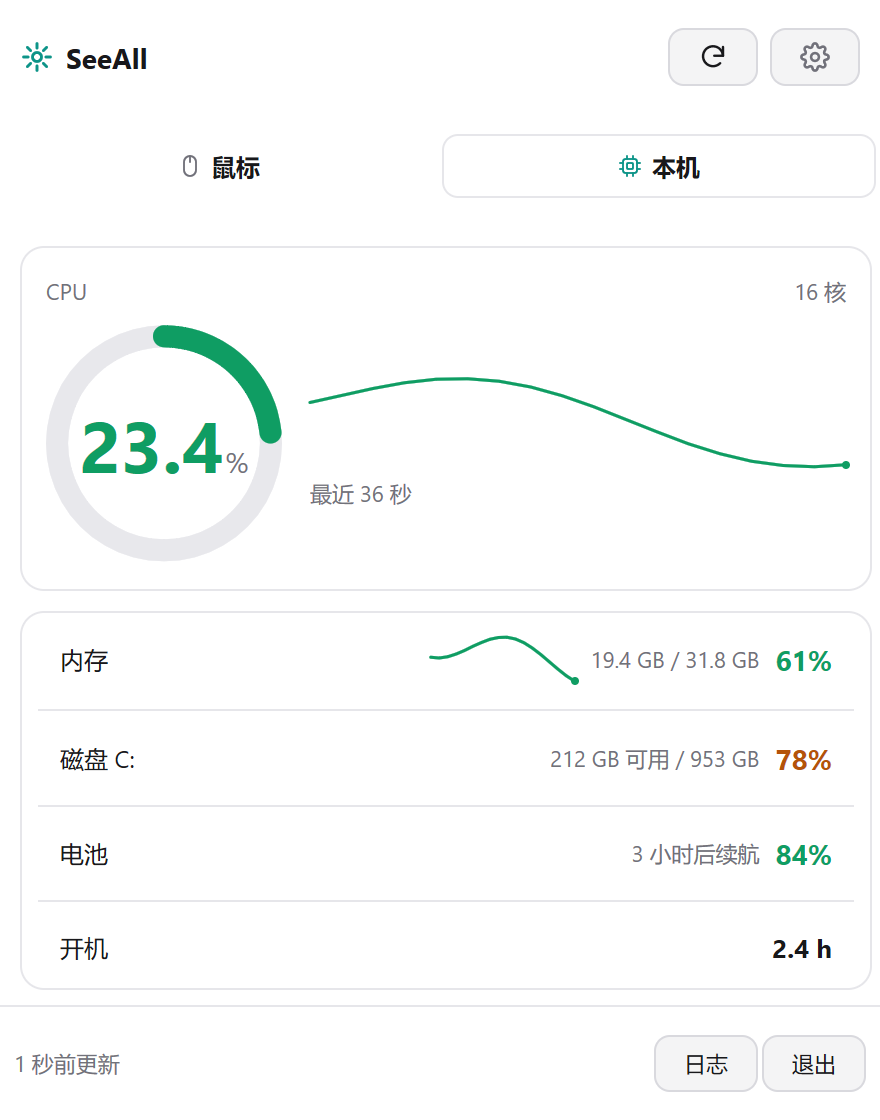
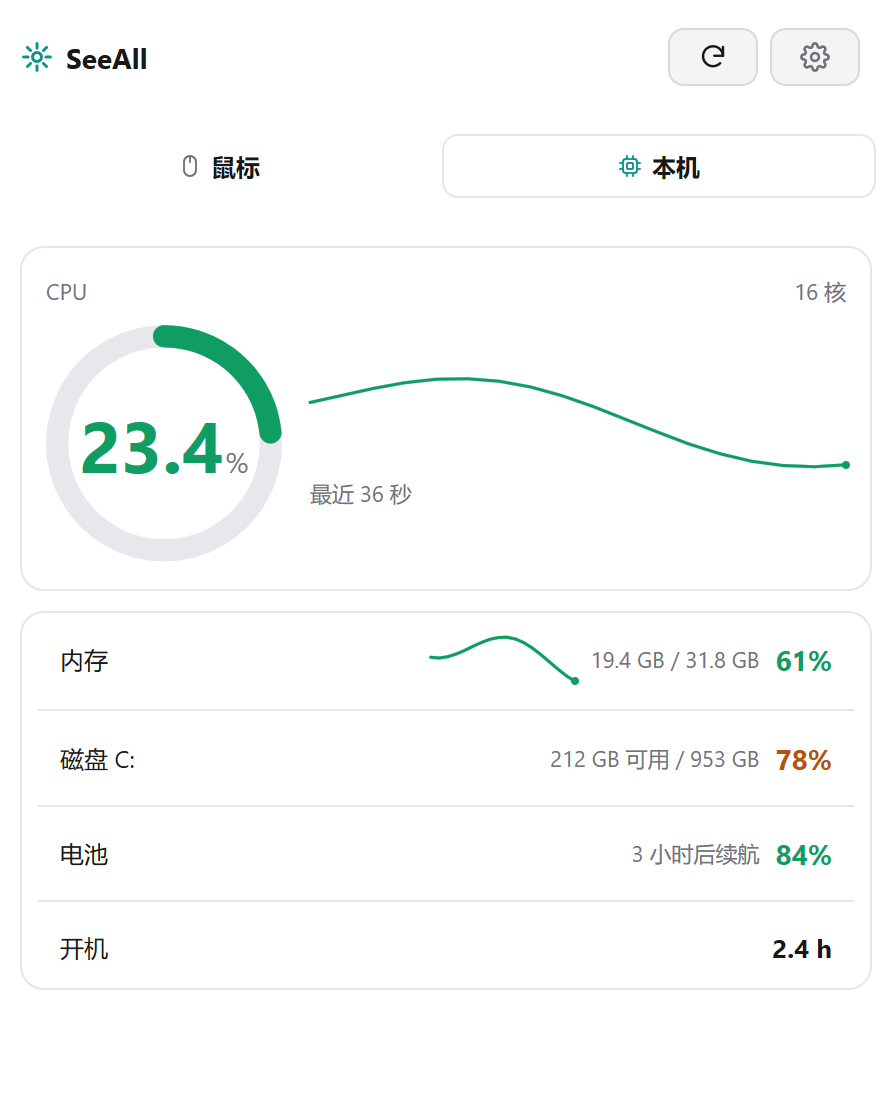
feat: 去掉面板底部的状态栏
下面那条「多久之前更新 / N 个监控项 · N 个插件」+ 日志 + 退出的状态栏整个删掉。
日志和退出在托盘右键菜单里本来就有，面板上重复一套既占地方又和「只看不操作」的
定位对不上。

随之清掉：
- panel.OpenLog 钩子（main 里给 UI 传打开日志回调的那段）——面板不再有调用方。
- detail.updatedText——只给状态栏用。
- panel.app 的 mygo / strconv 依赖。

fit_test 原来拿状态栏的「退出」当锚点断言页面没被裁，锚点没了，改成断言三层骨架
的相对位置与边界：标题栏在顶部、标签页在其下、页面内容在标签页之下且起点在窗口内。

验证：go build / go vet / gofmt 干净，go test 全绿；cmd/preview 重出三张文档图；
打包版 exe 实测面板底部不再有状态栏，窗口仍是 660×840 物理像素。

diff --git a/internal/panel/fit_test.go b/internal/panel/fit_test.go
@@ -87,10 +87,18 @@ func TestMarginDIP(t *testing.T) {
 }
 
 // TestFitFitsEveryPage renders each page at the sizes Fit gives a display and
-// checks that the status bar — the last thing in every window — and the tab
-// row are inside it. A page whose content outgrows the panel clips it, which
-// is what the fixed-size layout has to prevent.
+// checks its skeleton: the title bar on top, the tabs under it, the page under
+// them, all inside the window. A header pushed off the top or a tab row below
+// the fold is what the fixed-size layout has to prevent.
 func TestFitFitsEveryPage(t *testing.T) {
+	pages := []struct {
+		row     string
+		content string
+	}{
+		{"mouse", "电量"},
+		{"system", "CPU"},
+		{SettingsPage, "应用"},
+	}
 	for _, area := range []struct {
 		name  string
 		w, h  int
@@ -100,24 +108,40 @@ func TestFitFitsEveryPage(t *testing.T) {
 		{"laptop", 1358, 720, 1},
 	} {
 		m := Fit(area.w, area.h, area.scale)
-		for _, row := range []string{"mouse", "system", SettingsPage} {
+		for _, page := range pages {
 			h, _ := fixture(t)
 			p := New(h)
 			p.SetSize(m)
-			p.SetSelected(row)
+			p.SetSelected(page.row)
 
 			tt := ui.NewTester(p.View, m.Width, m.Height)
-			r, ok := tt.Find("退出")
+			title, ok := tt.Find("SeeAll")
 			if !ok {
-				t.Fatalf("%s/%s: the status bar is missing", area.name, row)
+				t.Fatalf("%s/%s: the title bar is missing: %v", area.name, page.row, tt.Texts())
 			}
-			if r.Y+r.H > float32(m.Height) {
-				t.Errorf("%s/%s: the status bar is clipped (bottom %v of %d)",
-					area.name, row, r.Y+r.H, m.Height)
+			if title.Y > 40 {
+				t.Errorf("%s/%s: the title bar sits at y=%v, not at the top",
+					area.name, page.row, title.Y)
 			}
-			if r.Y < float32(m.Height)*0.8 {
-				t.Errorf("%s/%s: the status bar sits at y=%v, not at the foot of %d",
-					area.name, row, r.Y, m.Height)
+			tabs, ok := tt.Find("本机")
+			if !ok {
+				t.Fatalf("%s/%s: the tab row is missing: %v", area.name, page.row, tt.Texts())
+			}
+			if tabs.Y <= title.Y+title.H {
+				t.Errorf("%s/%s: the tabs at y=%v overlap the title bar at y=%v",
+					area.name, page.row, tabs.Y, title.Y)
+			}
+			content, ok := tt.Find(page.content)
+			if !ok {
+				t.Fatalf("%s/%s: %q is missing: %v", area.name, page.row, page.content, tt.Texts())
+			}
+			if content.Y <= tabs.Y {
+				t.Errorf("%s/%s: the page content at y=%v sits above the tabs at y=%v",
+					area.name, page.row, content.Y, tabs.Y)
+			}
+			if content.Y > float32(m.Height) {
+				t.Errorf("%s/%s: the page starts below the window (y=%v of %d)",
+					area.name, page.row, content.Y, m.Height)
 			}
 		}
 	}

diff --git a/internal/panel/app.go b/internal/panel/app.go
@@ -2,9 +2,7 @@ package panel
 
 import (
 	"sort"
-	"strconv"
 
-	"github.com/egoist/mygo"
 	"github.com/egoist/mygo/ui"
 
 	"seeall/internal/app"
@@ -72,8 +70,8 @@ func (a *App) SetSelected(id string) {
 	}
 }
 
-// View builds the panel: a title bar, the tabs that choose what it shows, the
-// page, and a status bar at its foot.
+// View builds the panel: a title bar, the tabs that choose what it shows, and
+// the page.
 func (a *App) View(c *ui.Context) {
 	p := paletteFor(c)
 	a.handleKeys(c)
@@ -96,7 +94,6 @@ func (a *App) View(c *ui.Context) {
 				}
 			}
 		})
-		a.footer(c, p, instances)
 	})
 }
 
@@ -177,39 +174,6 @@ func (a *App) tabButton(c *ui.Context, p palette, tab ui.Element, on bool, icon 
 		}
 	})
 	return tab
-}
-
-// footer is the status bar: what the page above it last did, on the left, and
-// the two things that leave the panel on the right.
-func (a *App) footer(c *ui.Context, p palette, instances []*app.Instance) {
-	ui.Box(c).Shrink(0).Height(1).Background(p.CardBorder)
-	ui.Row(c).Shrink(0).Padding(14, 7).Gap(2).AlignItems(ui.Center).Children(func() {
-		ui.Text(c, a.statusLine(instances)).FontSize(11).TextColor(p.TextMuted).
-			Grow(1).NoWrap().MaxLines(1)
-		if ui.Button(c, "").Label("日志").Description("打开日志").Tooltip("打开日志").Children(func() {
-			ui.Text(c, "日志").FontSize(11).SingleLine()
-		}).Clicked() {
-			openLog()
-		}
-		if ui.Button(c, "").Label("退出").Description("退出 SeeAll").Tooltip("退出").Children(func() {
-			ui.Text(c, "退出").FontSize(11).SingleLine()
-		}).Clicked() {
-			mygo.App.Quit()
-		}
-	})
-}
-
-// statusLine says what the footer says about the page above it.
-func (a *App) statusLine(instances []*app.Instance) string {
-	if a.Selected() == SettingsPage {
-		return strconv.Itoa(len(instances)) + " 个监控项 · " +
-			strconv.Itoa(len(a.Host.Plugins())) + " 个插件"
-	}
-	in := a.Host.Instance(a.Selected())
-	if in == nil {
-		return "没有监控项"
-	}
-	return updatedText(in.Snapshot())
 }
 
 // ensureSelection keeps the panel on a row that exists: a monitor the user

diff --git a/main.go b/main.go
@@ -65,11 +65,6 @@ func main() {
 	s.host.Logf = func(format string, args ...any) { log.Printf(format, args...) }
 	s.panel = panel.New(s.host)
 	s.panel.Select = func(string) { s.refresh() }
-	panel.OpenLog = func() {
-		if dir, err := mygo.App.Path(mygo.PathLogs); err == nil {
-			mygo.Shell.ShowItemInFolder(filepath.Join(dir, "seeall.log"))
-		}
-	}
 
 	mygo.App.OnBeforeQuit(func(*mygo.QuitEvent) {
 		s.quitting = true

diff --git a/internal/panel/detail.go b/internal/panel/detail.go
@@ -189,13 +189,6 @@ func (a *App) disclosure(c *ui.Context, p palette, label string) ui.Element {
 	return row
 }
 
-func updatedText(snap core.Snapshot) string {
-	if snap.At.IsZero() {
-		return "还没有数据"
-	}
-	return core.FormatDuration(time.Since(snap.At)) + "更新"
-}
-
 func historyWindow(in *app.Instance, readingID string) string {
 	n := len(in.History(readingID))
 	seconds := intervalSeconds(in)

diff --git a/internal/panel/public.go b/internal/panel/public.go
@@ -12,12 +12,6 @@ import (
 // tray menu uses it to open them.
 const SettingsPage = "@settings"
 
-// OpenLog opens the log file, as the status bar's button does. The app sets
-// it once it knows where the file is.
-var OpenLog = func() {}
-
-func openLog() { OpenLog() }
-
 // Content returns the window's content for a panel: the view MyGo calls to
 // build each frame.
 func Content(a *App) *ui.Content {

diff --git a/README.md b/README.md
@@ -41,7 +41,7 @@ go build -o seeall.exe .  # 快速编译（带控制台，会自动隐藏）
 > 如果是从 cmd / PowerShell 起的，控制台是 shell 的，就不动它。
 > `go tool mygo build` 打出来的 exe 加了 `-H=windowsgui`，本来就没有控制台。
 
-- 左键托盘图标开关面板，右键是监控项菜单。
+- 左键托盘图标开关面板，右键是监控项菜单（刷新、设置、打开日志、退出都在那里）。
 - 首次运行会打开面板，并把开机自启打开（设置页可关）。
 - 配置在 `%AppData%\SeeAll\seeall.json`，日志在 `%AppData%\SeeAll\logs\seeall.log`。
 
@@ -68,14 +68,15 @@ Width  = round(660 / scale)                  // DIP：1x→660，1.5x→440，2x
 
 放不下（工作区比它小）时按高度等比缩，宽度再兜一次底；屏幕再大也不跟着长——托盘面板不该铺满屏幕。
 
-尺寸一次算定，切页/关掉重开都不变；内容装不下时页内滚动。`internal/panel/fit_test.go` 会把每个页面按桌面和笔记本两种尺寸渲染一遍，检查状态栏没被裁掉；另外三条测试盯着「像素换算成 DIP」这件容易写反的事（150% 下 660×840 px 必须等于 440×560 DIP）。
+尺寸一次算定，切页/关掉重开都不变；内容装不下时页内滚动。`internal/panel/fit_test.go` 会把每个页面按桌面和笔记本两种尺寸渲染一遍，检查标题栏、标签页、页面三层的相对位置和边界；另外三条测试盯着「像素换算成 DIP」这件容易写反的事（150% 下 660×840 px 必须等于 440×560 DIP）。
 
-从上到下四层：
+从上到下三层：
 
 - **标题栏**：应用名 + 刷新 + 设置。
 - **标签页**：每个监控项一个，等宽铺满，选中项是白底描边的卡片；状态不是「正常」时标签上是彩点，因为一次只看得到一页。
 - **页面**：主读数一张大卡（环 + 趋势），其余读数一条列表，一行一个，超过四个折起来（`显示其余 N 个`）。
-- **状态栏**：左边是「多久之前更新」或监控项统计，右边是日志与退出。
+
+页面里没有状态栏，也没有日志和退出按钮：托盘右键菜单里两样都有，面板只管看。
 
 托盘图标按电量画环：数字居中、外面一圈按百分比点亮（>30% 青绿 / 11–30% 琥珀 / ≤10% 红；离线画灰环，没数据画三个点）。深浅色任务栏各用一套墨色。
 

diff --git a/docs/design.md b/docs/design.md
@@ -109,18 +109,19 @@ Height = round(840 / scale)
 老版本用 `SizeToContent` 让窗口贴着内容长，结果设置页一开就长出屏幕外。
 现在页面容器是 `Grow(1) + Shrink(1) + Basis(0)`，标题栏永远在顶部。
 
-四层结构：
+三层结构：
 
 - **标题栏**（`header`）：图标 + 应用名 + 刷新 + 设置。
 - **标签页**（`tabs`）：`ui.TabsBase` 自绘，每项 `Grow(1)` 等宽；选中项白底描边，
   状态非「正常」时标签上带彩点——一次只看得到一页，别页的异常得有地方露。
 - **页面**：`detail` 是主读数大卡 + 其余读数的行列表（`maxRows = 4` 之外折进「显示其余 N 个」）；
   `settings` 是长表单，滚动。
-- **状态栏**（`footer`）：左边更新时间和监控项统计，右边日志与退出。
+
+面板里没有状态栏：日志和退出留在托盘右键菜单，面板只负责看。
 
 `internal/panel/fit_test.go` 把三个页面按「桌面」和「笔记本」两种可用区各渲染一遍，
-断言状态栏没被裁掉、且确实在底部——这是唯一能自动发现「内容撑破固定高度」的手段，
-因为失败方式是画面被切，数值上全绿。
+断言标题栏在顶部、标签页在其下、页面内容在标签页之下且起点在窗口内——这是能自动发现
+「内容撑破固定高度」的手段，因为失败方式是画面被切，数值上全绿。
 
 ## 托盘与定位
 
